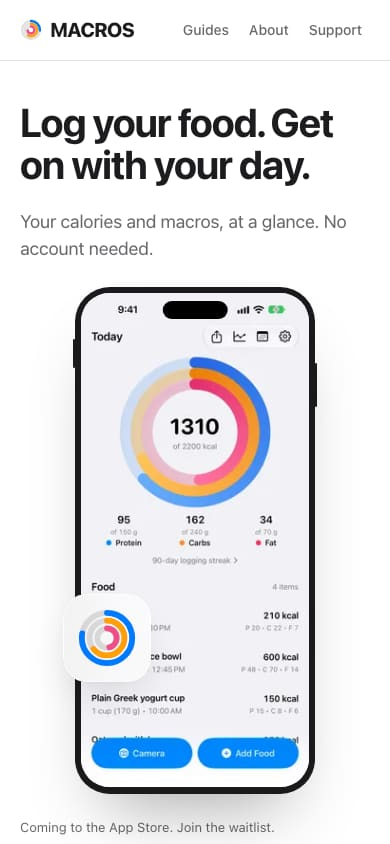
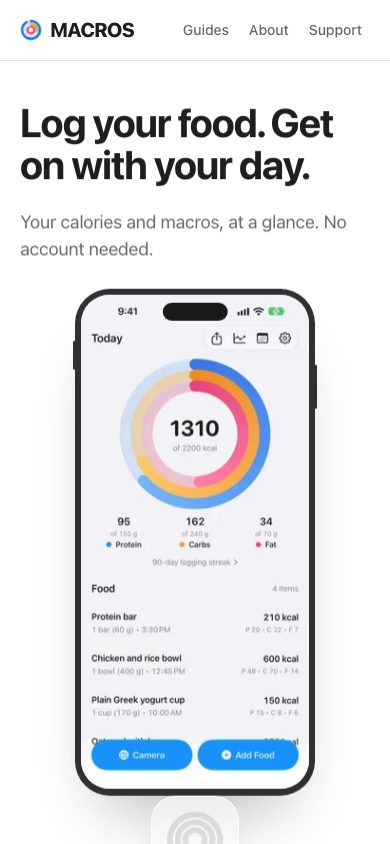
fix: finalize website copy and hero badge layout

diff --git a/web/src/styles/global.css b/web/src/styles/global.css
@@ -544,6 +544,7 @@ summary {
 	position: relative;
 	justify-self: center;
 	width: min(100%, 15rem);
+	padding-bottom: 5.5rem;
 }
 
 .hero__visual .device {
@@ -553,8 +554,8 @@ summary {
 /* Floating glass badge: three macro rings that draw in once on first view */
 .hero__rings {
 	position: absolute;
-	left: -0.75rem;
-	bottom: 22%;
+	left: 50%;
+	bottom: 0;
 	width: 5.5rem;
 	padding: var(--space-3);
 	border: 1px solid var(--glass-edge);
@@ -563,6 +564,7 @@ summary {
 	-webkit-backdrop-filter: saturate(180%) blur(20px);
 	backdrop-filter: saturate(180%) blur(20px);
 	box-shadow: var(--shadow-soft);
+	transform: translateX(-50%);
 }
 
 .hero__rings svg {
@@ -622,12 +624,14 @@ summary {
 		justify-self: end;
 		width: min(100%, 20rem);
 		margin-right: var(--space-5);
+		padding-bottom: 0;
 	}
 
 	.hero__rings {
-		left: -5.25rem;
+		left: -7.5rem;
 		bottom: 14%;
 		width: 6.5rem;
+		transform: none;
 	}
 }
 

diff --git a/web/src/data/site.ts b/web/src/data/site.ts
@@ -61,7 +61,7 @@ export const site = {
 			eyebrow: 'Logging',
 			glyph: 'rings',
 			accent: 'protein',
-			title: 'Lunch first. No sign-up.',
+			title: 'Open it and start.',
 			body: 'Open the app and start your food diary.',
 			size: 'wide',
 		},
@@ -69,7 +69,7 @@ export const site = {
 			eyebrow: 'Scanning',
 			glyph: 'scan',
 			accent: 'carbs',
-			title: 'Less typing at the table.',
+			title: 'Scan it instead of typing it.',
 			body: 'Scan the barcode or nutrition label on the pack.',
 			size: 'narrow',
 		},

diff --git a/docs/evidence/web-copy/README.md b/docs/evidence/web-copy/README.md
@@ -10,11 +10,11 @@ November 5, 2026. Branch `web/copy`, based on `e481272`. Nothing deployed. No si
 - At 390 × 844, the phone starts at 286.7px instead of 590.5px. Its bottom is 793.6px. The email form starts at 853.0px.
 - Desktop keeps the phone beside the copy and signup.
 - The App Store flag stays false. The official badge and Smart Banner remain gated by that flag.
-- Visible home copy has 886 words before and 718 after, 168 fewer words, a 19.0% cut.
+- Visible home copy has 886 words before and 720 after, 166 fewer words, an 18.7% cut.
 - Hero headline plus supporting copy falls from 29 words to 18.
-- Four tracked JPEGs total 423,443 bytes, under 2 MiB.
+- Four tracked JPEGs total 311,275 bytes, under 2 MiB.
 
-Word counts use rendered `document.body.innerText` at 390 × 844 after opening all six FAQ disclosures. They include header, comparison table, screenshot captions, FAQ answers, footer, and both form buttons. Scripts, hidden status messages, and image alt text are absent from that text. Removing the clipped honeypot and email labels, skip link, screen-reader table caption, repeated Included/Not included labels, and check/dash symbols gives 886 and 718 visible words. The unfiltered text has 977 and 809 tokens, a 17.2% reduction. The same browser and method count both versions. The hidden secondary desktop navigation adds three words to either version and does not change the reduction.
+Word counts use rendered `document.body.innerText` at 390 × 844 after opening all six FAQ disclosures. They include header, comparison table, screenshot captions, FAQ answers, footer, and both form buttons. Scripts, hidden status messages, and image alt text are absent from that text. Removing the clipped honeypot and email labels, skip link, screen-reader table caption, repeated Included/Not included labels, and check/dash symbols gives 886 and 720 visible words. The unfiltered text has 977 and 811 tokens, a 17.0% reduction. The same browser and method count both versions. The hidden secondary desktop navigation adds three words to either version and does not change the reduction.
 
 The local baseline already showed the top of the phone above the fold, unlike the owner's live screenshot. The before capture preserves the actual branch state. No screenshot was changed to mimic the reported layout.
 
@@ -24,8 +24,8 @@ Lighthouse 13.6.0, Playwright 1.64.1, Chromium 156.0.8078.4, Bun 1.4.2 on macOS.
 
 | Home | Before P / A / BP / SEO | After P / A / BP / SEO | LCP before → after | CLS | TBT |
 | --- | --- | --- | --- | --- | --- |
-| Mobile | 100 / 100 / 100 / 100 | 100 / 100 / 100 / 100 | 1.361s → 1.437s | 0 → 0 | 0 → 0ms |
-| Desktop | 100 / 100 / 100 / 100 | 100 / 100 / 100 / 100 | 0.354s → 0.372s | 0 → 0 | 0 → 0ms |
+| Mobile | 100 / 100 / 100 / 100 | 100 / 100 / 100 / 100 | 1.361s → 0.756s | 0 → 0 | 0 → 0ms |
+| Desktop | 100 / 100 / 100 / 100 | 100 / 100 / 100 / 100 | 0.354s → 0.262s | 0 → 0 | 0 → 0ms |
 
 The mobile phone is now fully visible and uses an appropriate 240px source size. The scores stayed at 100. The small LCP difference is not evidence of a performance improvement. Existing unused-JavaScript and render-blocking advisories remain. These are lab scores, not field INP or conversion results.
 
@@ -38,7 +38,7 @@ All final checks passed.
 - Root `git diff --check`.
 - `bun docs/evidence/web-og/verify-og.mjs`, seven previews, deterministic clean/repeat builds, isolated title invalidation, no draft leaks, and isolated publication checks. Home title stayed unchanged, so the title assertion needed no edit. The home description changed and its preview hash changed.
 - Existing `verifySite` exported by `docs/evidence/web-seo/verify.mjs`, invoked through Playwright against the built Worker. Seven sitemap routes, metadata lengths, canonicals, JSON-LD, exact visible FAQ/schema equality, internal links, hidden drafts/feed, 404, redirects, and honeypot form responses passed.
-- Additional browser checks at 320, 390, 768, 900, and 1440 in light and dark. One H1, no document overflow, loaded hero image, mobile image before signup, full phone within the 390px fold, native transition opt-in, header ring logo, and no hero animation under reduced motion all passed.
+- Additional browser checks at 320, 390, 768, 900, and 1440 in light and dark. The glass rings tile is centered below the phone screen through 768px, then sits left of the phone from 900px onward. Its bounding box stays inside the horizontal viewport and clear of the screen's visible content and macro ring at every tested width, with no document overflow. One H1, loaded hero image, mobile image before signup, full phone within the 390px fold, native transition opt-in, header ring logo, and no hero animation under reduced motion all passed.
 - Both waitlist forms retain their existing labels and behavior. The hero form rejects empty/invalid email, enables on a valid fixture address, shows keyboard focus, and resets after a mocked success response. No email was sent. The existing SEO verifier uses honeypots, not a real database write.
 - About and Support each rendered at 390px with one H1.
 - Read the complete diff after validation. No new client JavaScript, dependencies, duplicate forms, or unused badge CSS remain.
@@ -113,9 +113,9 @@ Unchanged names, navigation labels, accessible labels, prices, legal text, artic
 
 | String | Before | After |
 | --- | --- | --- |
-| features.0.title | No account. Open it and log. | Lunch first. No sign-up. |
+| features.0.title | No account. Open it and log. | Open it and start. |
 | features.0.body | Nothing to sign up for. Logging works as soon as the app opens. Sharing is optional. | Open the app and start your food diary. |
-| features.1.title | Scan a barcode or a nutrition label. | Less typing at the table. |
+| features.1.title | Scan a barcode or a nutrition label. | Scan it instead of typing it. |
 | features.1.body | One camera view reads both. If a scan misses, type the food in. | Scan the barcode or nutrition label on the pack. |
 | features.2.title | Your food log stays on your iPhone. | Keep your diary on your phone. |
 | features.2.body | Logs, saved foods, goals, and weight entries are stored on your iPhone, not on our servers. | Your food log lives on your iPhone. Sharing is your choice. |
@@ -215,7 +215,7 @@ Unchanged names, navigation labels, accessible labels, prices, legal text, artic
 | --- | --- | --- |
 | Hero launch line | Included in the longer privacy note below | Coming to the App Store. Join the waitlist. |
 | Hero privacy note | Join the waitlist for the App Store launch. We use your email for the waitlist only. See the privacy policy. | Your email is only for the waitlist. Privacy policy. |
-| Feature heading | Log fast. Check the numbers. Keep your data. | Make room for lunch. |
+| Feature heading | Log fast. Check the numbers. Keep your data. | Quick enough to keep doing. |
 | Feature supporting line | Quick logging, with every number in view. | Keep track without making a project of it. |
 | Screenshot heading | See a day in MACROS. | Take a look inside. |
 | Screenshot supporting line | From the first scan to the daily share card. | Your meals, all in one place. |
